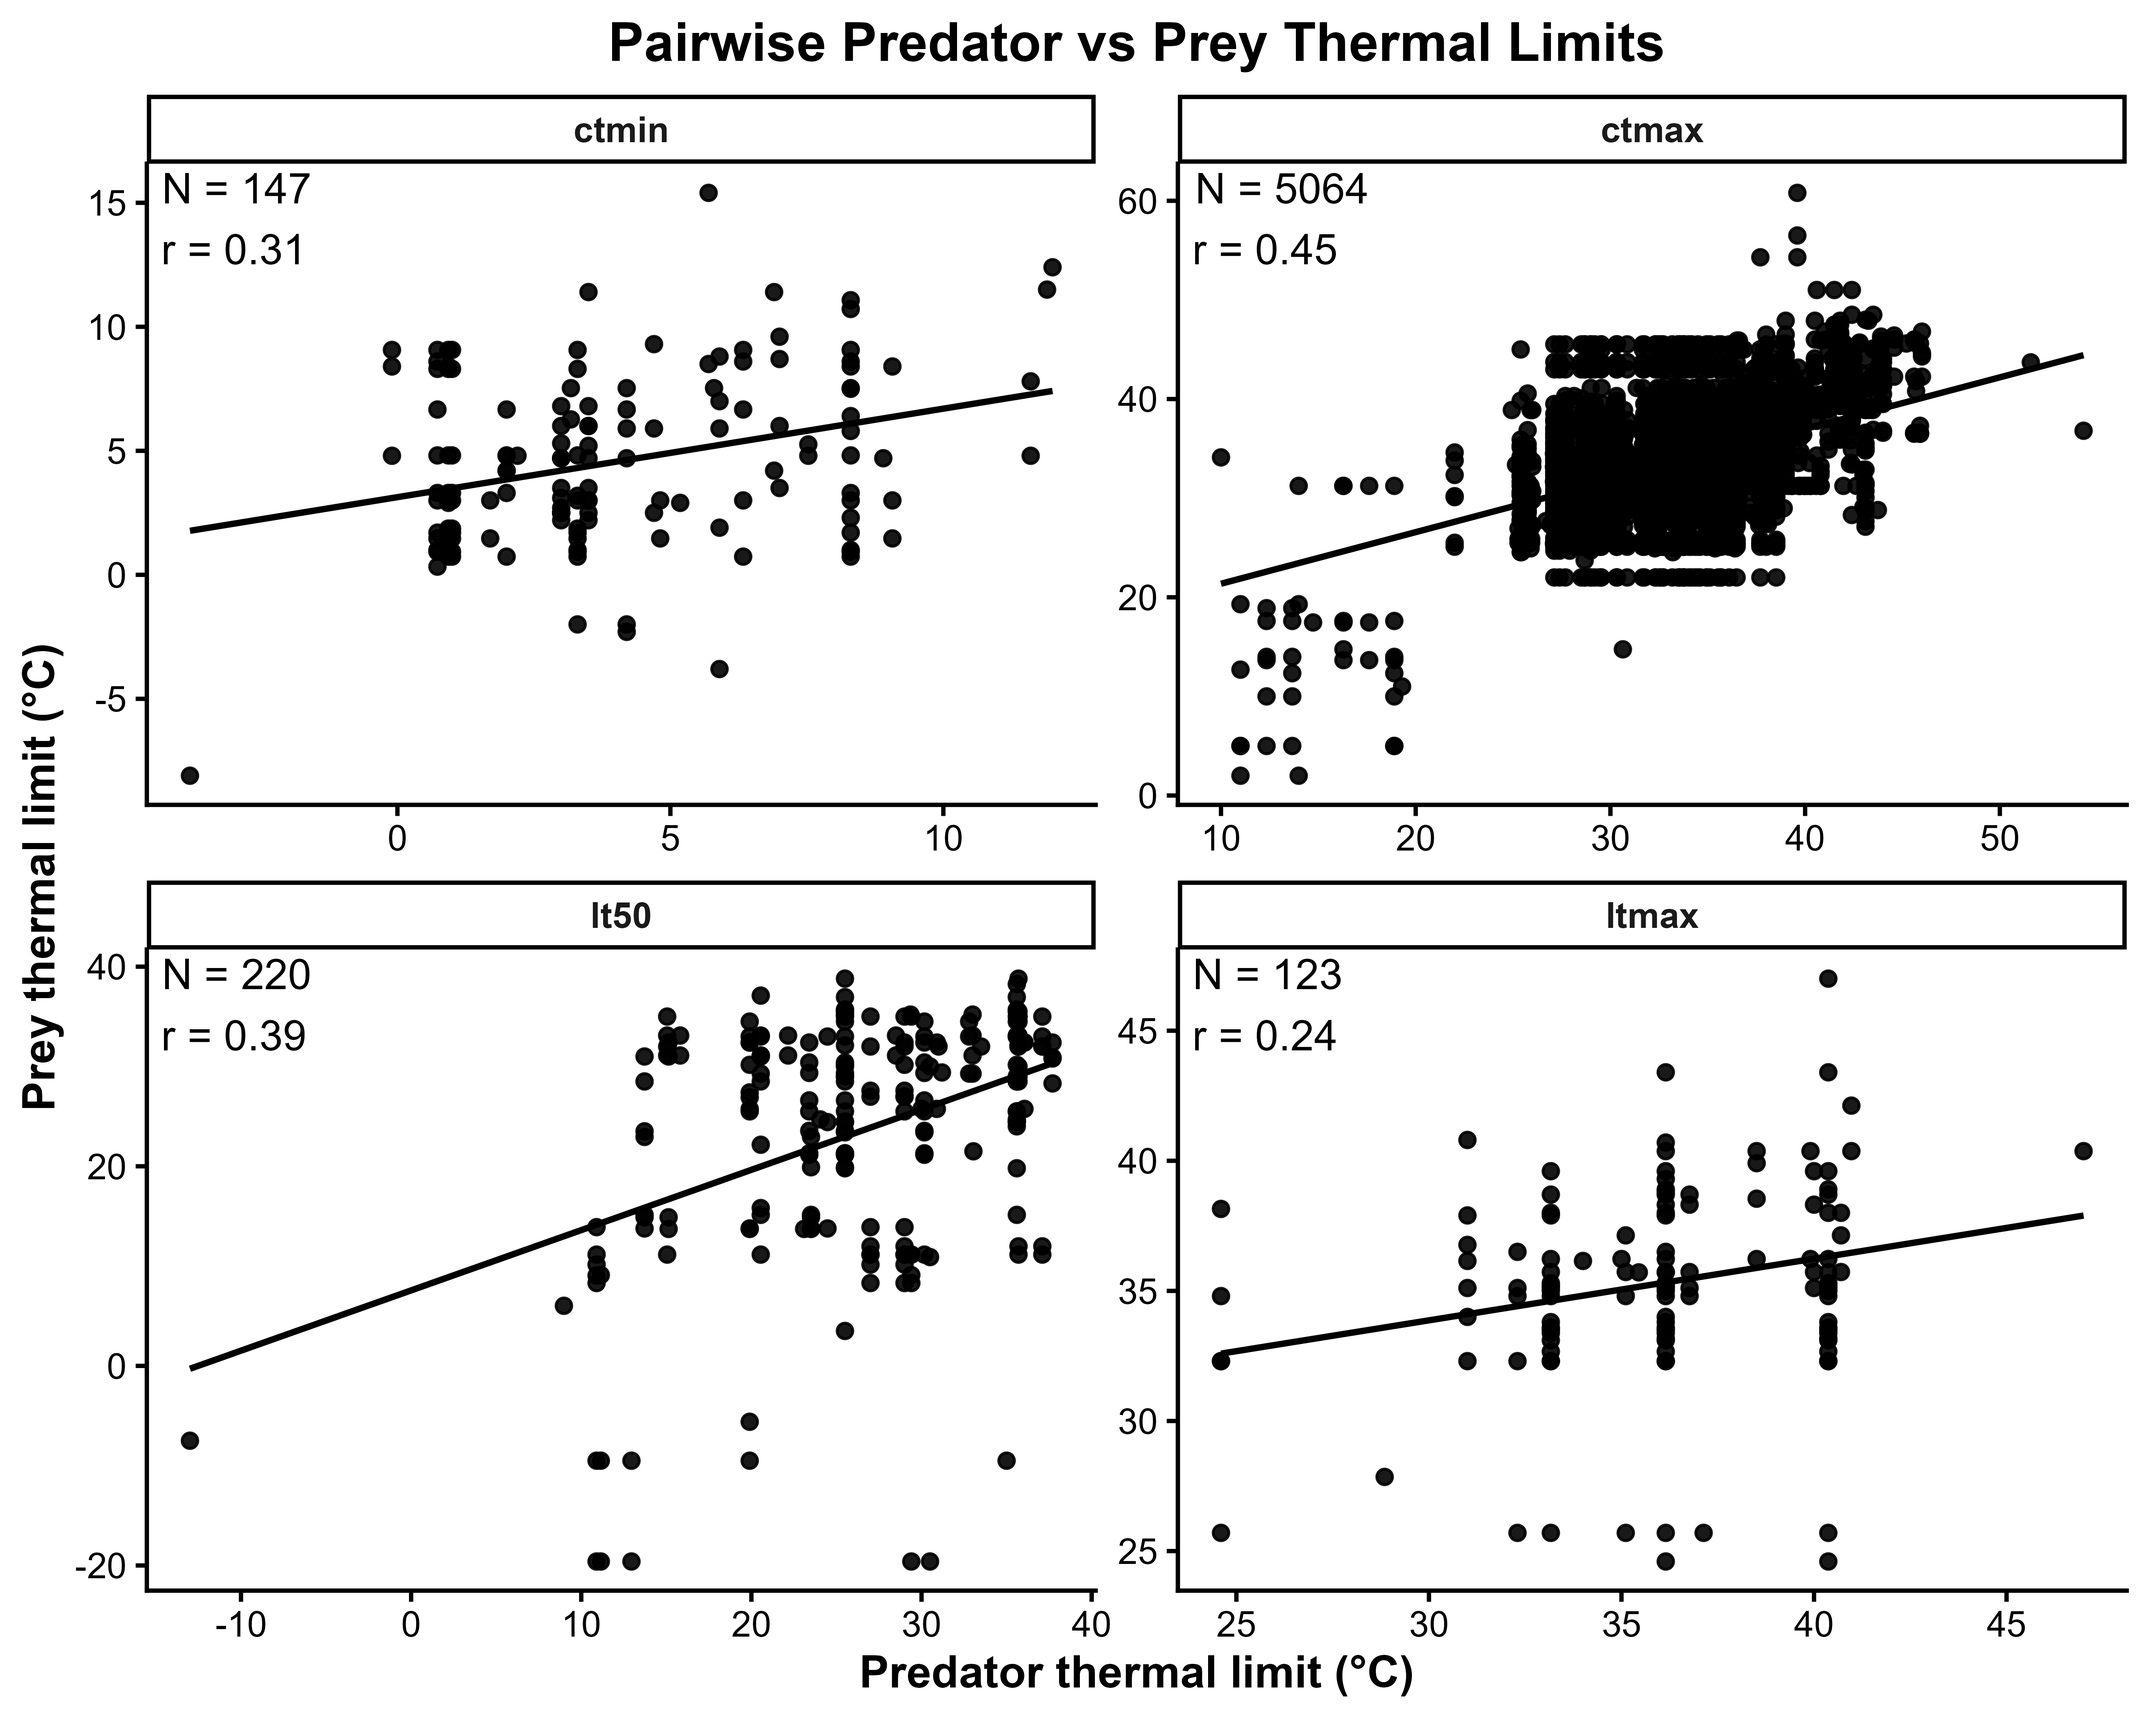
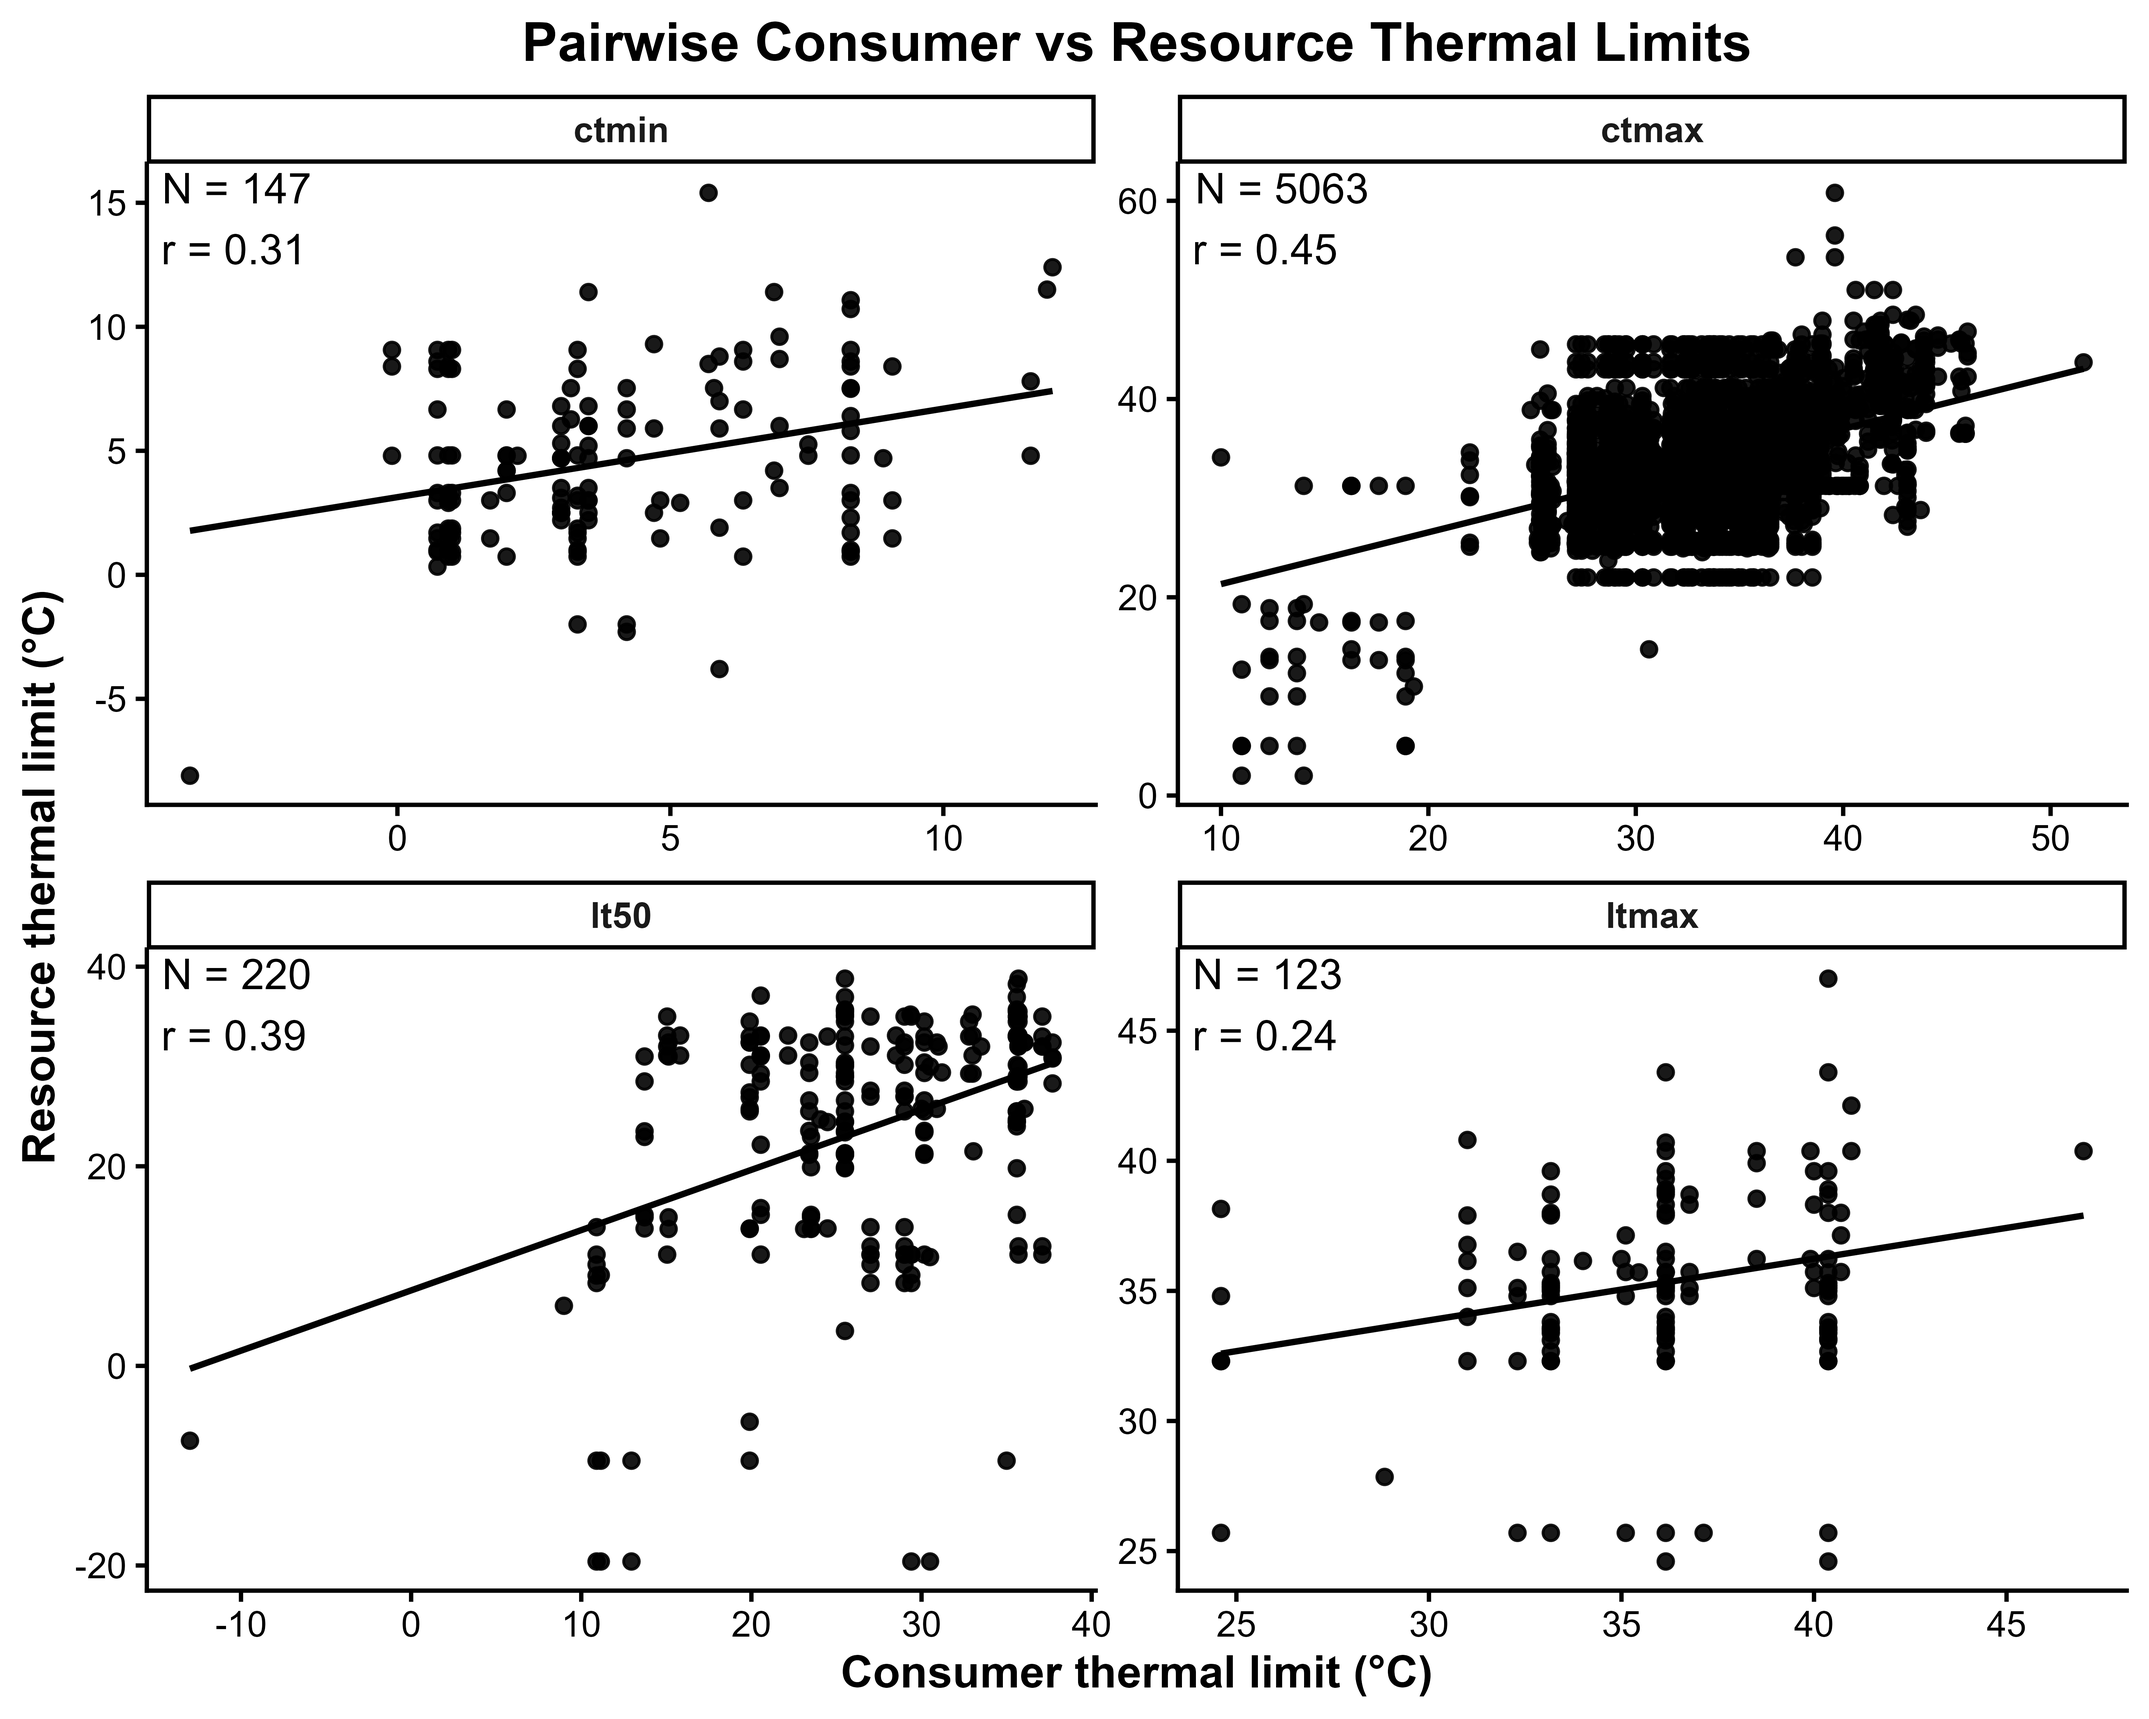
Figure changes and other small tweaks

diff --git a/ThermalAnalysis/DATA_DICTIONARY.md b/ThermalAnalysis/DATA_DICTIONARY.md
@@ -18,6 +18,8 @@
 - `recorded_consumer_degree`: unique non-self resources documented by GloBI or
   TetraEU;
 - `recorded_resource_consumers`: number of documented consumers;
+- `taxon_status`: animal, non-animal, or unresolved from the available
+  taxonomic evidence;
 - `globi_taxon_paths`, `globi_taxon_ids`, and `tetraeu_taxon_ids`: interaction
   database identifiers and taxonomic evidence.
 
@@ -26,6 +28,9 @@
 - `consumer`, `resource`: harmonized species pair;
 - `GloBI`, `TetraEU`, `interaction_sources`: database provenance;
 - `interaction_types`, study and reported-name fields: retained evidence;
+- `consumer_taxon_status`, `consumer_taxon_evidence`: validation of the
+  consumer role. Only verified animals are retained as consumers; any taxon may
+  remain as a resource;
 - `self_link`: whether consumer and resource resolve to the same species.
 
 ## `thermal_interactions_master.csv`
@@ -40,3 +45,10 @@ are retained in the recorded table but excluded from every thermal analysis.
 - `prey_with_trait`: recorded resources with the same thermal metric as the
   consumer;
 - `prey_trait_coverage`: `prey_with_trait / recorded_prey_species`.
+
+## `thermal_consumer_taxon_audit.csv`
+
+- one row per thermal-trait species considered for a GloBI consumer query;
+- `consumer_taxon_status`: animal, non-animal, or unresolved;
+- `queried_as_consumer` and `exclusion_reason`: the reproducible decision and
+  its reason. Only verified animals are queried as consumers.

diff --git a/README.md b/README.md
@@ -69,14 +69,17 @@ TROPHICDISTRIBUTIONS/
 │   ├── PlotSensitivity.R      # Produce the sensitivity figure
 │   └── README.md
 ├── ThermalAnalysis/
+│   ├── BuildThermalDataset.R
 │   ├── MainThermalAnalysis.jl
-│   └── PlotThermalMetrics.R
+│   ├── PlotThermalMetrics.R
+│   └── Figure5.R
 ├── EmpiricalDegrees/
 │   ├── Data/
 │   │   └── thermal_consumers.csv
 │   ├── Functions.R
 │   ├── MainEmpiricalDegrees.R
 │   ├── PlotEmpiricalDegrees.R
+│   ├── ConsumerValidation.R
 │   └── README.md
 ├── test/
 │   ├── runtests.jl
